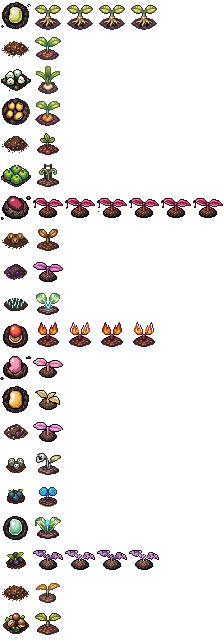
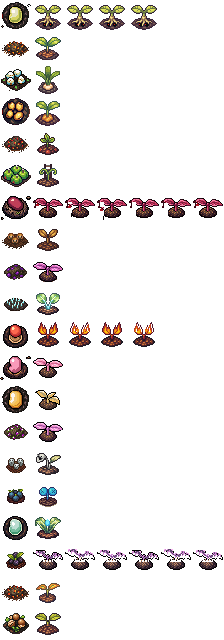
Sprout animations read on the Deck: bigger mandrake eyes, a real drip, ragged twitching bat wings
Claude-Session: https://claude.ai/code/session_01DZoCGNTKvTqdtWPybs567b

diff --git a/tools/art/crop_anim.py b/tools/art/crop_anim.py
@@ -30,17 +30,20 @@ def eyes(img: Image.Image) -> list:
 
 
 def drip(img: Image.Image) -> list:
+    """The drop hangs below the leftmost tip of the left leaf; only pixels under that tip move."""
     a = _arr(img)
     ys = np.arange(a.shape[0])[:, None]
     xs = np.arange(a.shape[1])[None, :]
-    red = (a[..., 3] > 0) & (a[..., 0] > 90) & (a[..., 1] < 70) & (a[..., 2] < 80) & (xs < 14) & (ys > 6) & (ys < 22)
-    if not red.any():
+    leaf = (a[..., 3] > 0) & (a[..., 0] > 140) & (a[..., 1] >= 60) & (xs < 16) & (ys < 18)
+    if not leaf.any():
         return [(img, 1.0)]
-    bottom = np.nonzero(red)[0].max()
-    drop = red & (ys >= bottom - 2)
+    x0 = np.nonzero(leaf)[1].min()
+    y0 = np.nonzero(leaf[:, x0])[0].max()
+    drop = (a[..., 3] > 0) & (xs >= x0) & (xs <= x0 + 3) & (ys > y0)
     gone = _img(_shift(a, drop, 0, 40))
+    top = drop & (ys == y0 + 1)
     return [(img, 2.6), (_img(_shift(a, drop, 0, 2)), 0.12), (_img(_shift(a, drop, 0, 5)), 0.12), (gone, 0.8),
-            (_img(_shift(a, drop & (ys == bottom - 2), 0, 0)), 0.3), (img, 0.4)]
+            (_img(_shift(a, drop & ~top, 0, 40)), 0.3), (img, 0.4)]
 
 
 def flame(img: Image.Image) -> list:
@@ -58,9 +61,11 @@ def flame(img: Image.Image) -> list:
 def twitch(img: Image.Image) -> list:
     a = _arr(img)
     ys = np.arange(a.shape[0])[:, None]
-    wings = (a[..., 3] > 0) & (a[..., 0] > 110) & (a[..., 2] > 110) & (a[..., 1] < 130) & (ys < 20)
-    up = _img(_shift(a, wings, 0, -1))
-    return [(img, 2.2), (up, 0.12), (img, 0.14), (up, 0.12)]
+    dark = (a[..., 0] < 60) & (a[..., 1] < 60) & (a[..., 2] < 60)
+    wings = (a[..., 3] > 0) & ~dark & (ys < 18)
+    up = _img(_shift(a, wings, 0, -2))
+    mid = _img(_shift(a, wings, 0, -1))
+    return [(img, 2.2), (up, 0.14), (mid, 0.1), (img, 0.16), (up, 0.14), (mid, 0.1)]
 
 
 BUILDERS = {"eyes": eyes, "drip": drip, "flame": flame, "twitch": twitch}
